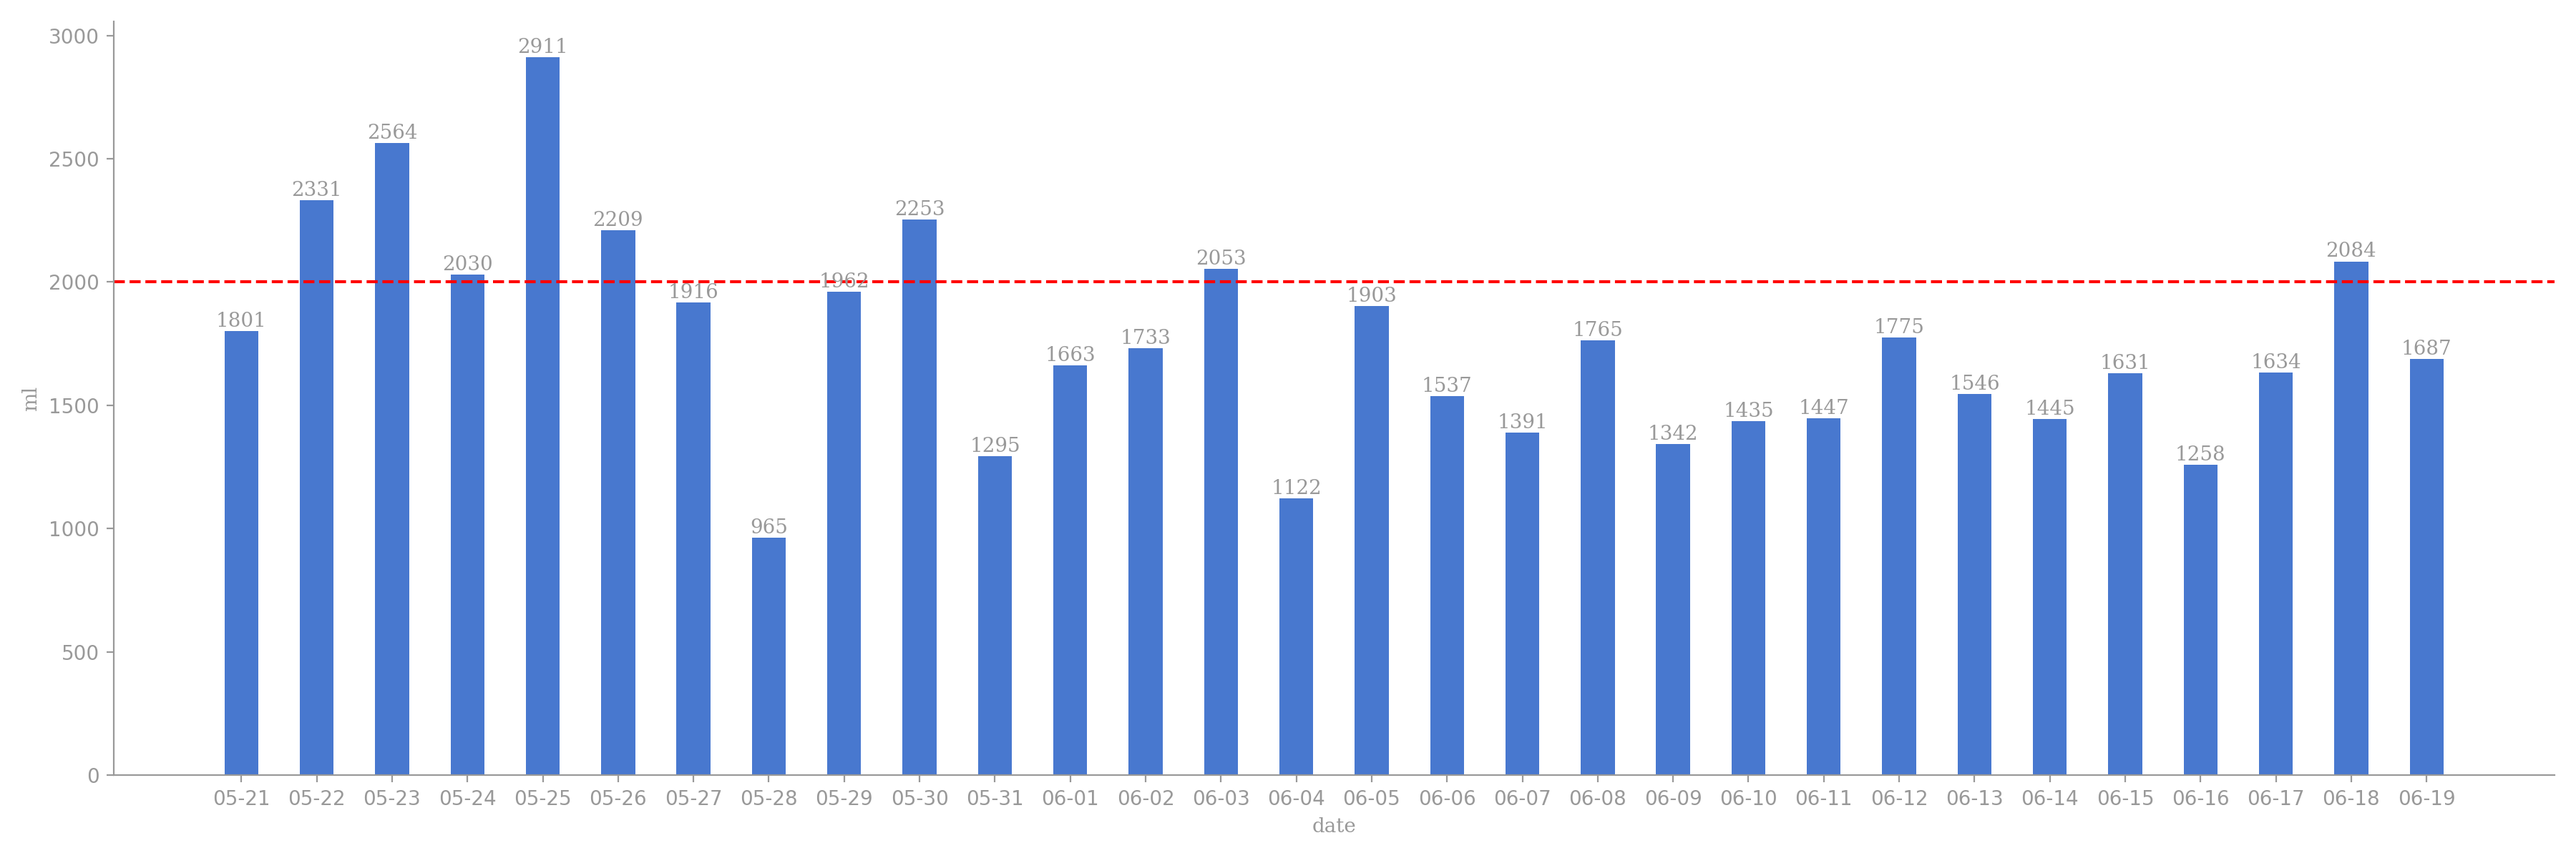
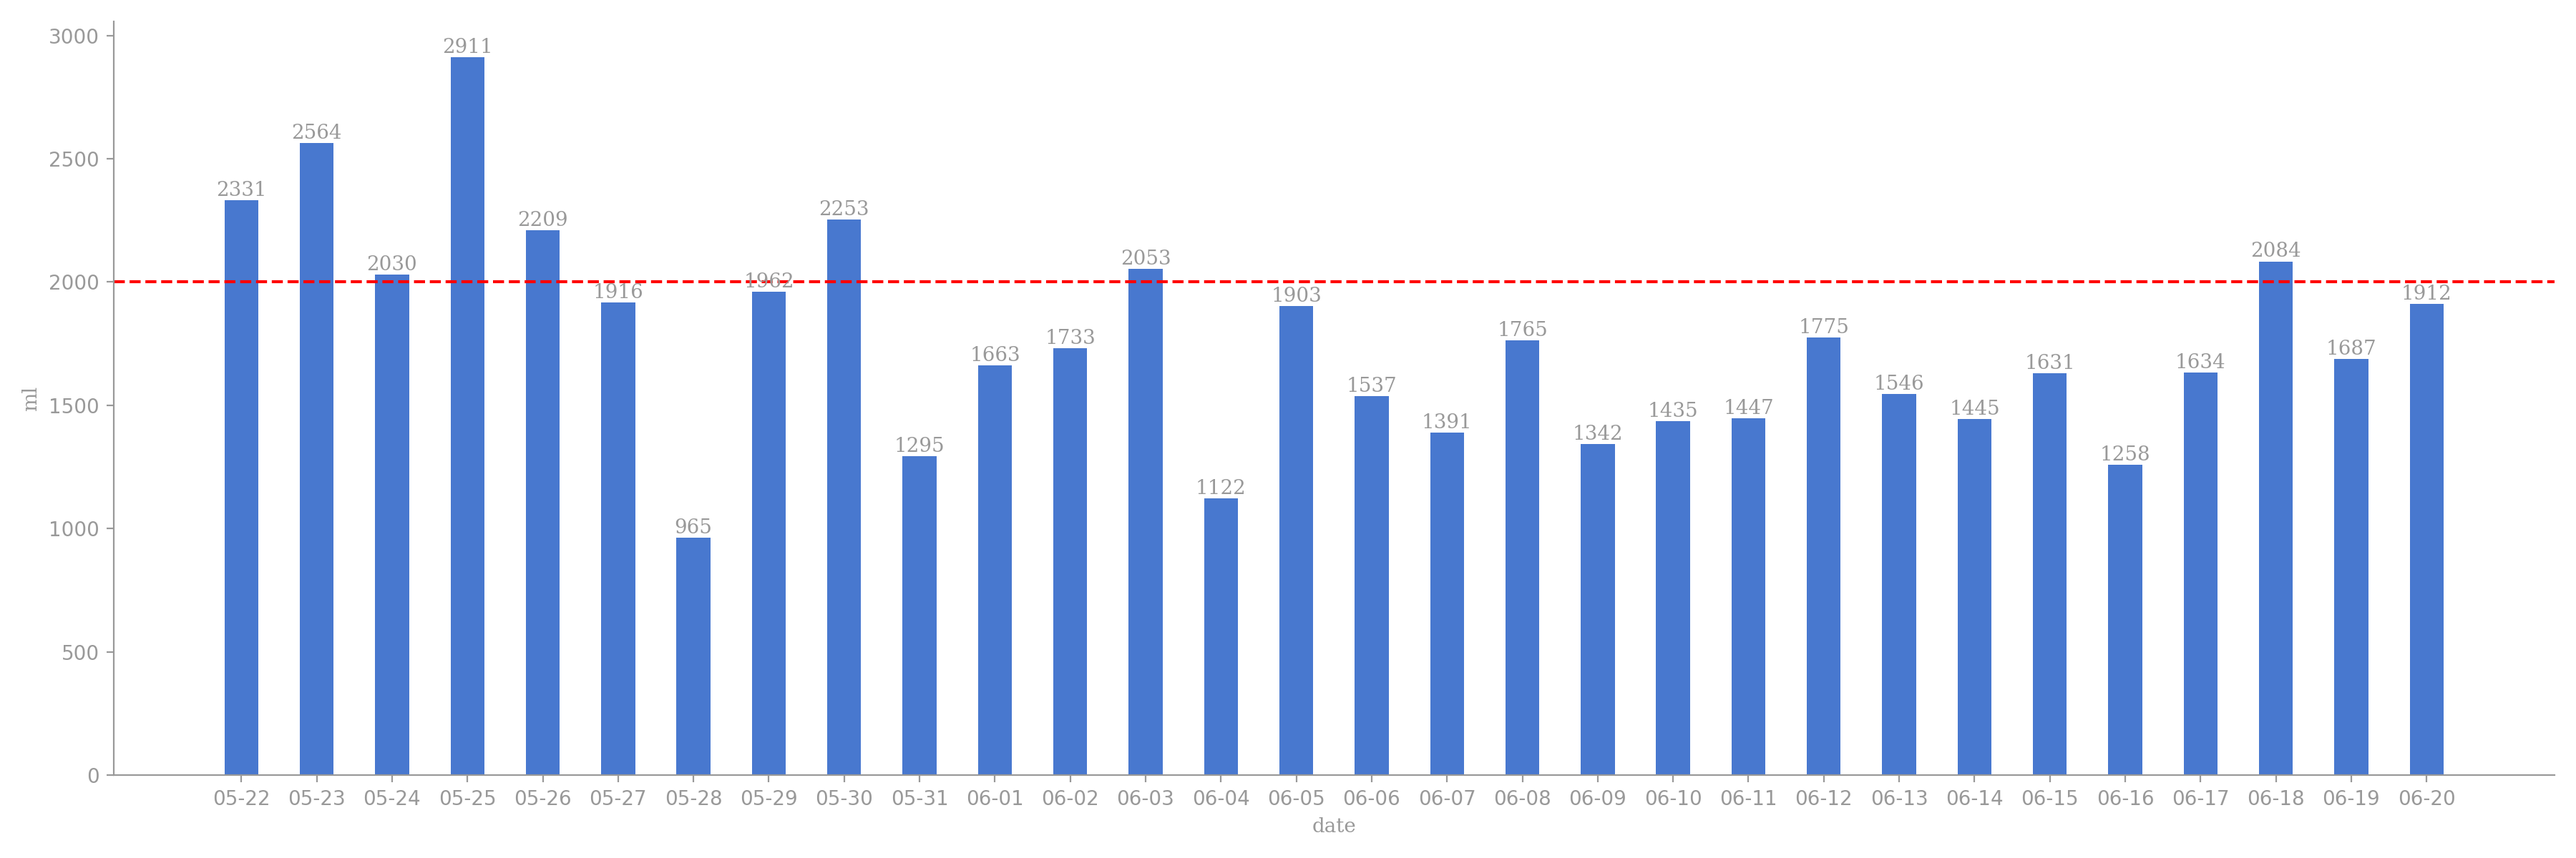
generated readme

Changed region(s): [[0.0622, 0.0308, 0.9644, 0.6475]]

diff --git a/README.md b/README.md
@@ -1,17 +1,3 @@
-# 今日饮水数据
-
-<div align=center>
-<img src="today.png" style="zoom: 100%;" />
-
-| 今日总饮水量 | 每小时平均饮水量 |
-| :----: | :----: |
-| 1912 | 173 |
-</div>
-
-| 日期 | 00:16:03 | 08:05:54 | 08:43:45 | 09:50:12 | 10:14:44 | 12:29:49 | 14:41:48 | 16:17:37 | 16:58:21 | 17:34:53 | 17:42:35 | 20:22:28 | 22:18:10 | 22:22:04 | 23:14:22 |
-| :----: | :----: | :----: | :----: | :----: | :----: | :----: | :----: | :----: | :----: | :----: | :----: | :----: | :----: | :----: | :----: |
-| 2025-06-20 | 79 | 146 | 187 | 55 | 55 | 90 | 420 | 89 | 102 | 93 | 32 | 77 | 300 | 93 | 94 |
-
 # 近30日饮水数据
 
 <div align=center>
@@ -19,8 +5,12 @@
 
 | 总饮水量 | 日均饮水量 |
 | :----: | :----: |
-| 52688 | 1756 |
+| 52799 | 1759 |
 </div>
+
+| 日期 | all | 00:16:03 | 08:05:54 | 08:43:45 | 09:50:12 | 10:14:44 | 12:29:49 | 14:41:48 | 16:17:37 | 16:58:21 | 17:34:53 | 17:42:35 | 20:22:28 | 22:18:10 | 22:22:04 | 23:14:22 |
+| :----: | :----: | :----: | :----: | :----: | :----: | :----: | :----: | :----: | :----: | :----: | :----: | :----: | :----: | :----: | :----: | :----: |
+| 2025-06-20 | 1912 | 79 | 146 | 187 | 55 | 55 | 90 | 420 | 89 | 102 | 93 | 32 | 77 | 300 | 93 | 94 |
 
 | 日期 | all | 00:23:22 | 07:56:12 | 10:14:43 | 13:06:06 | 13:58:51 | 14:58:39 | 15:27:50 | 16:25:03 | 16:58:37 | 17:37:09 | 18:59:26 | 20:32:54 | 21:00:11 | 21:26:37 | 22:52:59 |
 | :----: | :----: | :----: | :----: | :----: | :----: | :----: | :----: | :----: | :----: | :----: | :----: | :----: | :----: | :----: | :----: | :----: |
@@ -141,8 +131,4 @@
 | 日期 | all | 00:24:32 | 00:46:23 | 04:43:36 | 08:21:37 | 10:14:47 | 10:31:21 | 12:16:50 | 13:04:08 | 14:59:31 | 15:43:10 | 16:06:12 | 16:21:11 | 16:53:23 | 21:24:35 | 22:25:40 | 23:07:58 |
 | :----: | :----: | :----: | :----: | :----: | :----: | :----: | :----: | :----: | :----: | :----: | :----: | :----: | :----: | :----: | :----: | :----: | :----: |
 | 2025-05-21 | 1801 | 78 | 89 | 55 | 228 | 81 | 111 | 100 | 88 | 165 | 87 | 44 | 113 | 34 | 300 | 134 | 94 |
-
-| 日期 | all | 00:59:36 | 04:34:09 | 08:00:00 | 10:03:08 | 11:39:31 | 12:20:50 | 12:42:07 | 13:13:58 | 14:31:04 | 15:29:12 | 16:03:35 | 16:42:15 | 17:38:16 | 19:36:15 | 21:00:38 | 21:41:40 | 23:36:28 |
-| :----: | :----: | :----: | :----: | :----: | :----: | :----: | :----: | :----: | :----: | :----: | :----: | :----: | :----: | :----: | :----: | :----: | :----: | :----: |
-| 2025-05-20 | 2367 | 44 | 62 | 420 | 420 | 96 | 100 | 77 | 92 | 76 | 63 | 112 | 107 | 83 | 88 | 200 | 250 | 77 |
 
